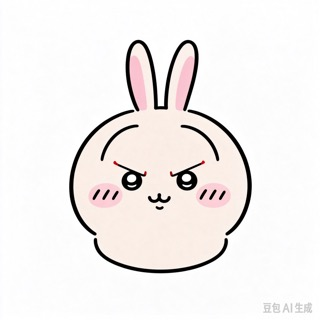
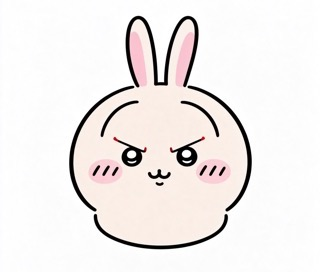
feat(online): 三丽鸥主题 + 换局图章即时刷新修复 + 图片瘦身与去水印
- fix: 换局时重抽棋子对提前到渲染开头，「你执」图章不再显示上一局的旧图
- feat: 三丽鸥系列（4 图池）+ 粉色棋盘底色
- 图片优化：全部 320px JPEG，总量 3.7MB→248KB；每局只加载抽中的 2 张
- 去水印：三丽鸥/吉伊卡哇/drink4 裁除底部 15%（右下角水印）

diff --git a/examples/online.html b/examples/online.html
@@ -309,9 +309,11 @@
   /* 主题棋盘底色（浅淡不抢戏，深色模式同款色系加深） */
   .board[data-theme="tea"]      { --cell-tint: #f6efe4; --cell-tint-hover: #ede2d0; }
   .board[data-theme="chiikawa"] { --cell-tint: #fbf5e0; --cell-tint-hover: #f3ead0; }
+  .board[data-theme="sanrio"]   { --cell-tint: #fdf0f3; --cell-tint-hover: #f8e0e8; }
   @media (prefers-color-scheme: dark) {
     .board[data-theme="tea"]      { --cell-tint: #2c2820; --cell-tint-hover: #3a3428; }
     .board[data-theme="chiikawa"] { --cell-tint: #2c2a1e; --cell-tint-hover: #393627; }
+    .board[data-theme="sanrio"]   { --cell-tint: #2e2226; --cell-tint-hover: #3d2c33; }
   }
   .cell.win-cell { background: var(--win-bg); border-color: var(--win-border); }
   .cell.win-cell .piece { transform: scale(1.1); }
@@ -644,6 +646,10 @@
       board: 'chiikawa',   // 吉伊卡哇系列：图片池随机抽两张
       pool: ['assets/chiikawa1.jpg', 'assets/chiikawa2.jpg', 'assets/chiikawa3.jpg'],
     },
+    {
+      board: 'sanrio',   // 三丽鸥系列：图片池随机抽两张
+      pool: ['assets/sanrio1.jpg', 'assets/sanrio2.jpg', 'assets/sanrio3.jpg', 'assets/sanrio4.jpg'],
+    },
   ];
   let themeIndex = Math.floor(Math.random() * THEMES.length);
   let theme = THEMES[themeIndex];
@@ -849,7 +855,18 @@
   }
 
   function render(st) {
-    if (!st.over) $('resultModal').classList.remove('show');   // 对方重开新局时，收掉本方结果弹窗
+    if (!st.over) $('resultModal').classList.remove('show');
+
+    // 新一局开始 → 先换棋子对和表情栏（必须在本函数开头：下方 who/status 图章立即用新配对渲染）
+    if (st.round !== chatRound) {
+      chatRound = st.round;
+      renderChatBar();
+      if (theme.pool) {
+        pair = pairForRound(st.round);
+        cells.forEach(c => { c.innerHTML = pieceHtml(); });
+      }
+    }
+
     st.board.forEach((m, i) => {
       if (m) cells[i].dataset.mark = m;
       else delete cells[i].dataset.mark;
@@ -861,16 +878,6 @@
     $('who').innerHTML = `你执 ${chip(st.myMark)}`;
     $('roundNo').textContent = `第 ${st.round + 1} 局` + (seriesTarget ? ` · BO${seriesTarget * 2 - 1}` : '');
     $('rematchBtn').classList.toggle('hidden', !st.over || seriesEnded);
-
-    // 新一局开始 → 表情栏重新洗牌；图片主题每局换一对棋子（种子+局号推导，双方一致）
-    if (st.round !== chatRound) {
-      chatRound = st.round;
-      renderChatBar();
-      if (theme.pool) {
-        pair = pairForRound(st.round);
-        cells.forEach(c => { c.innerHTML = pieceHtml(); });
-      }
-    }
 
     // 新落子检测：涟漪 + 音效（本方音效由点击处直接播，跳过）
     let placedIdx = -1;
